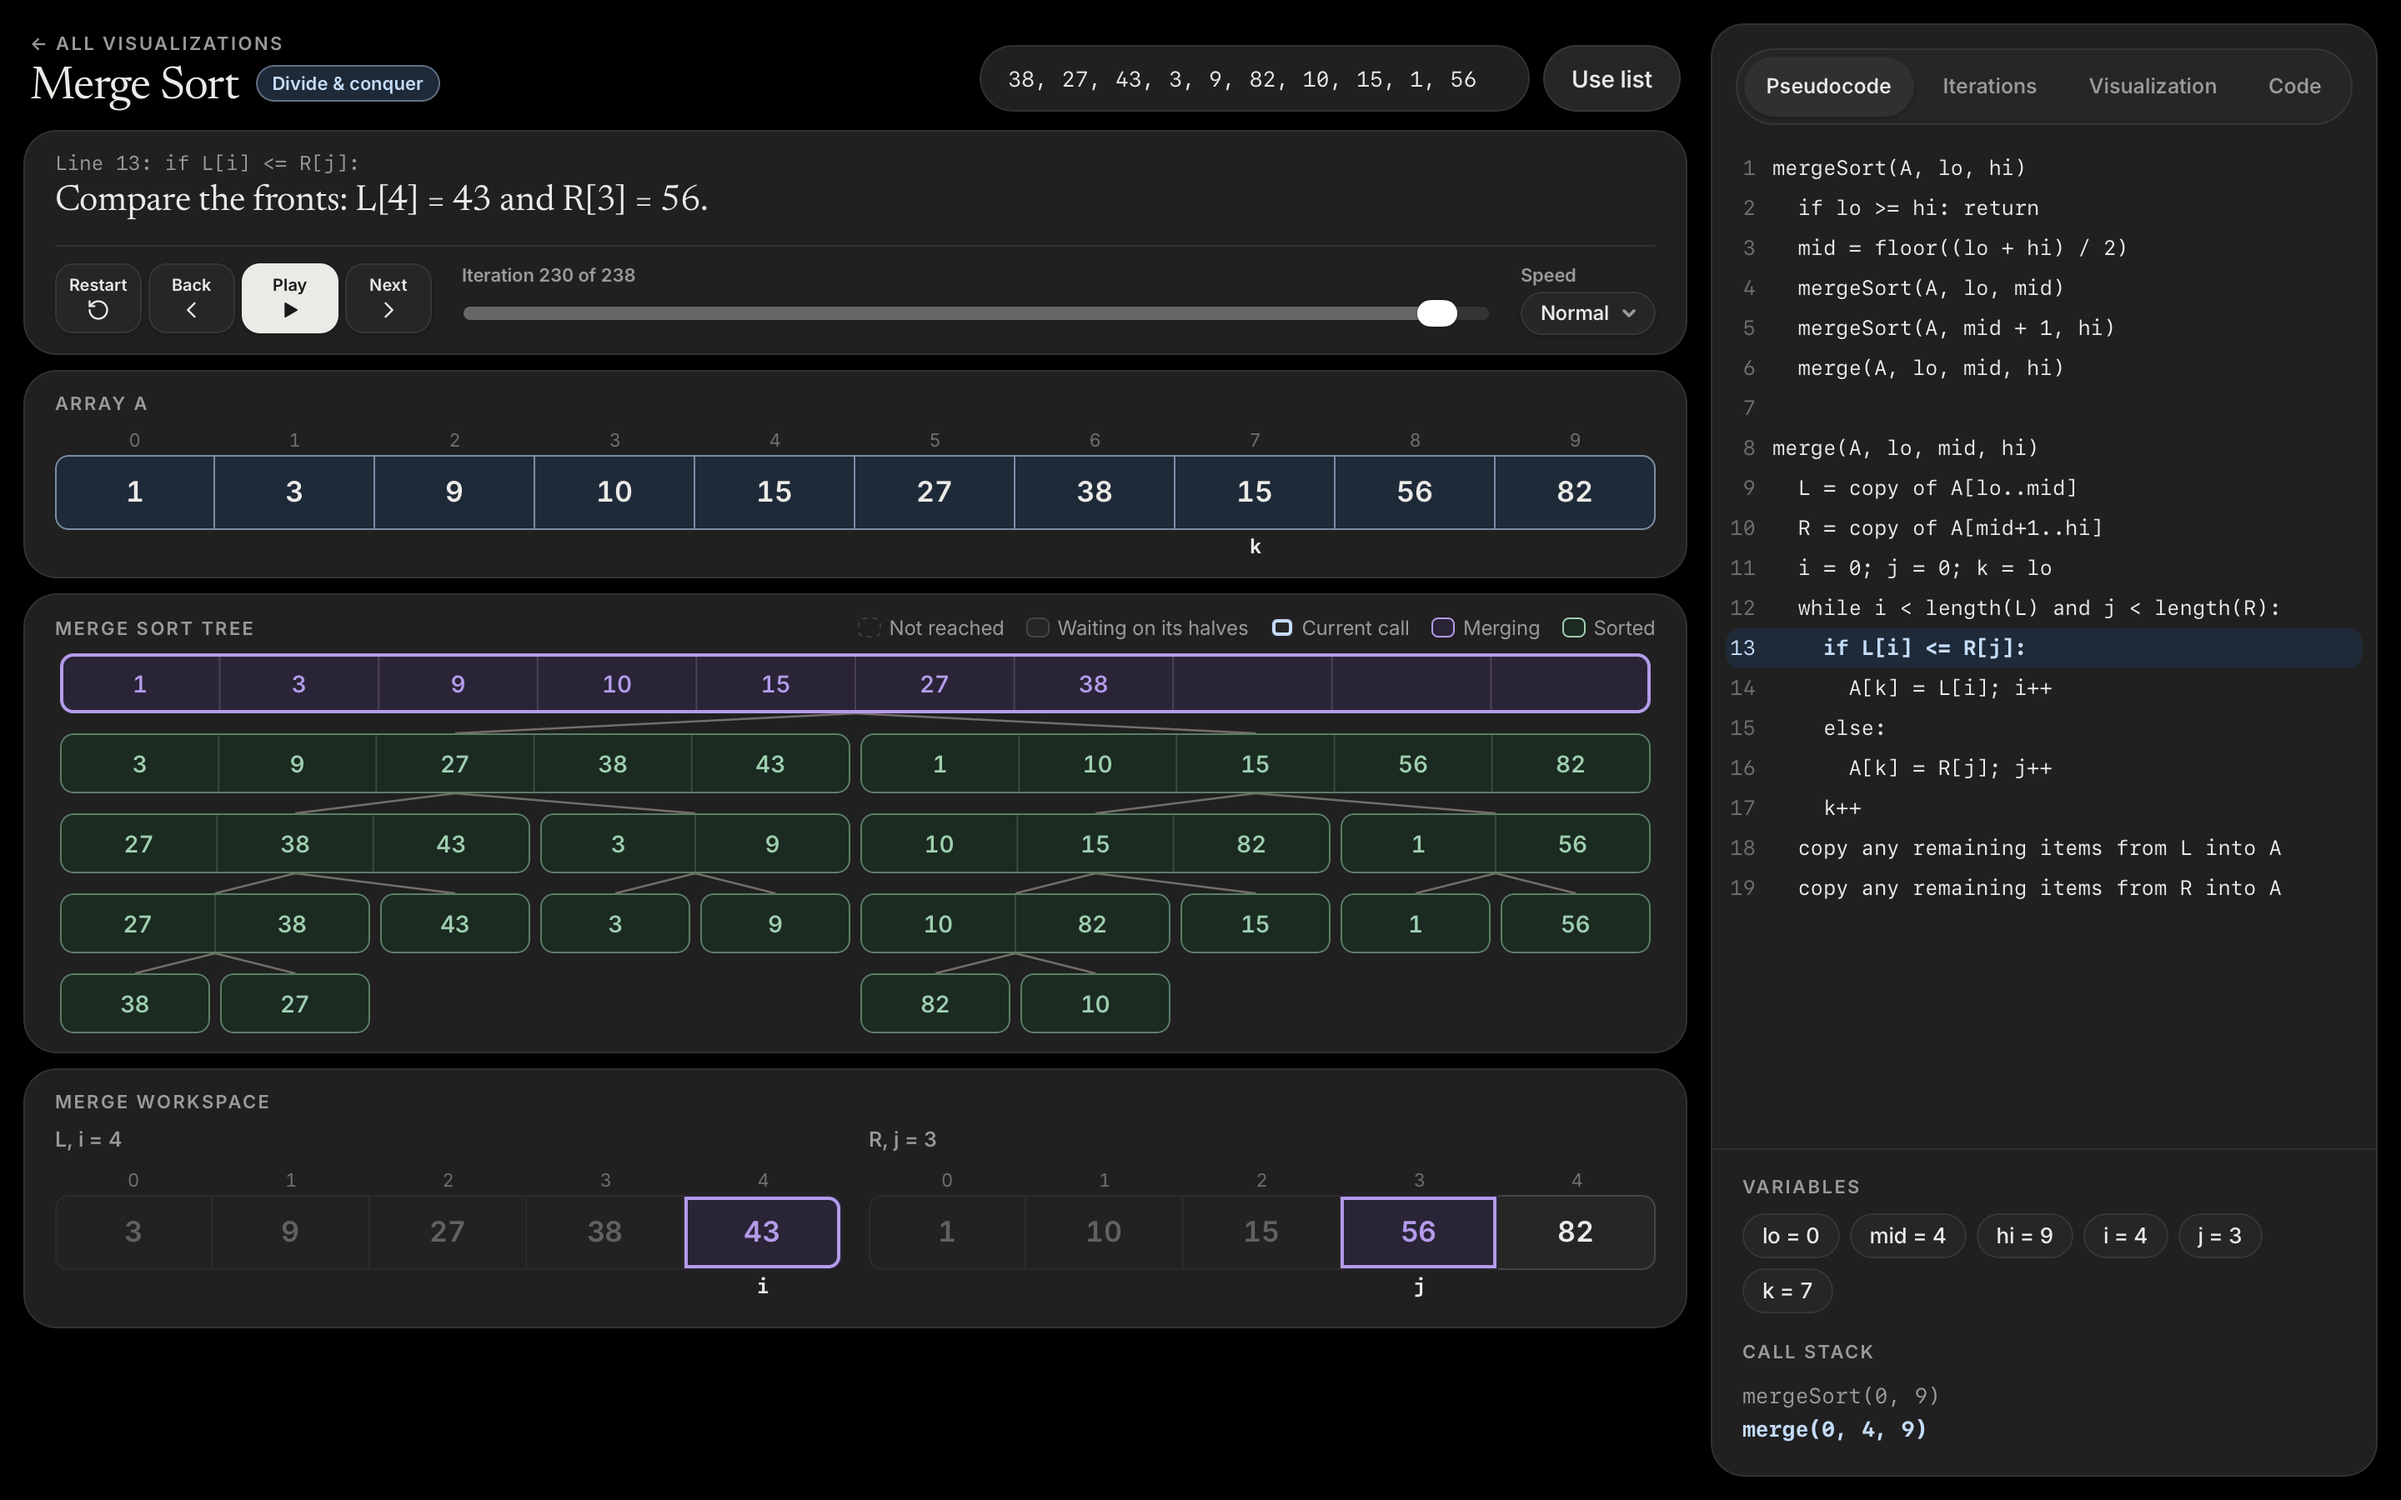
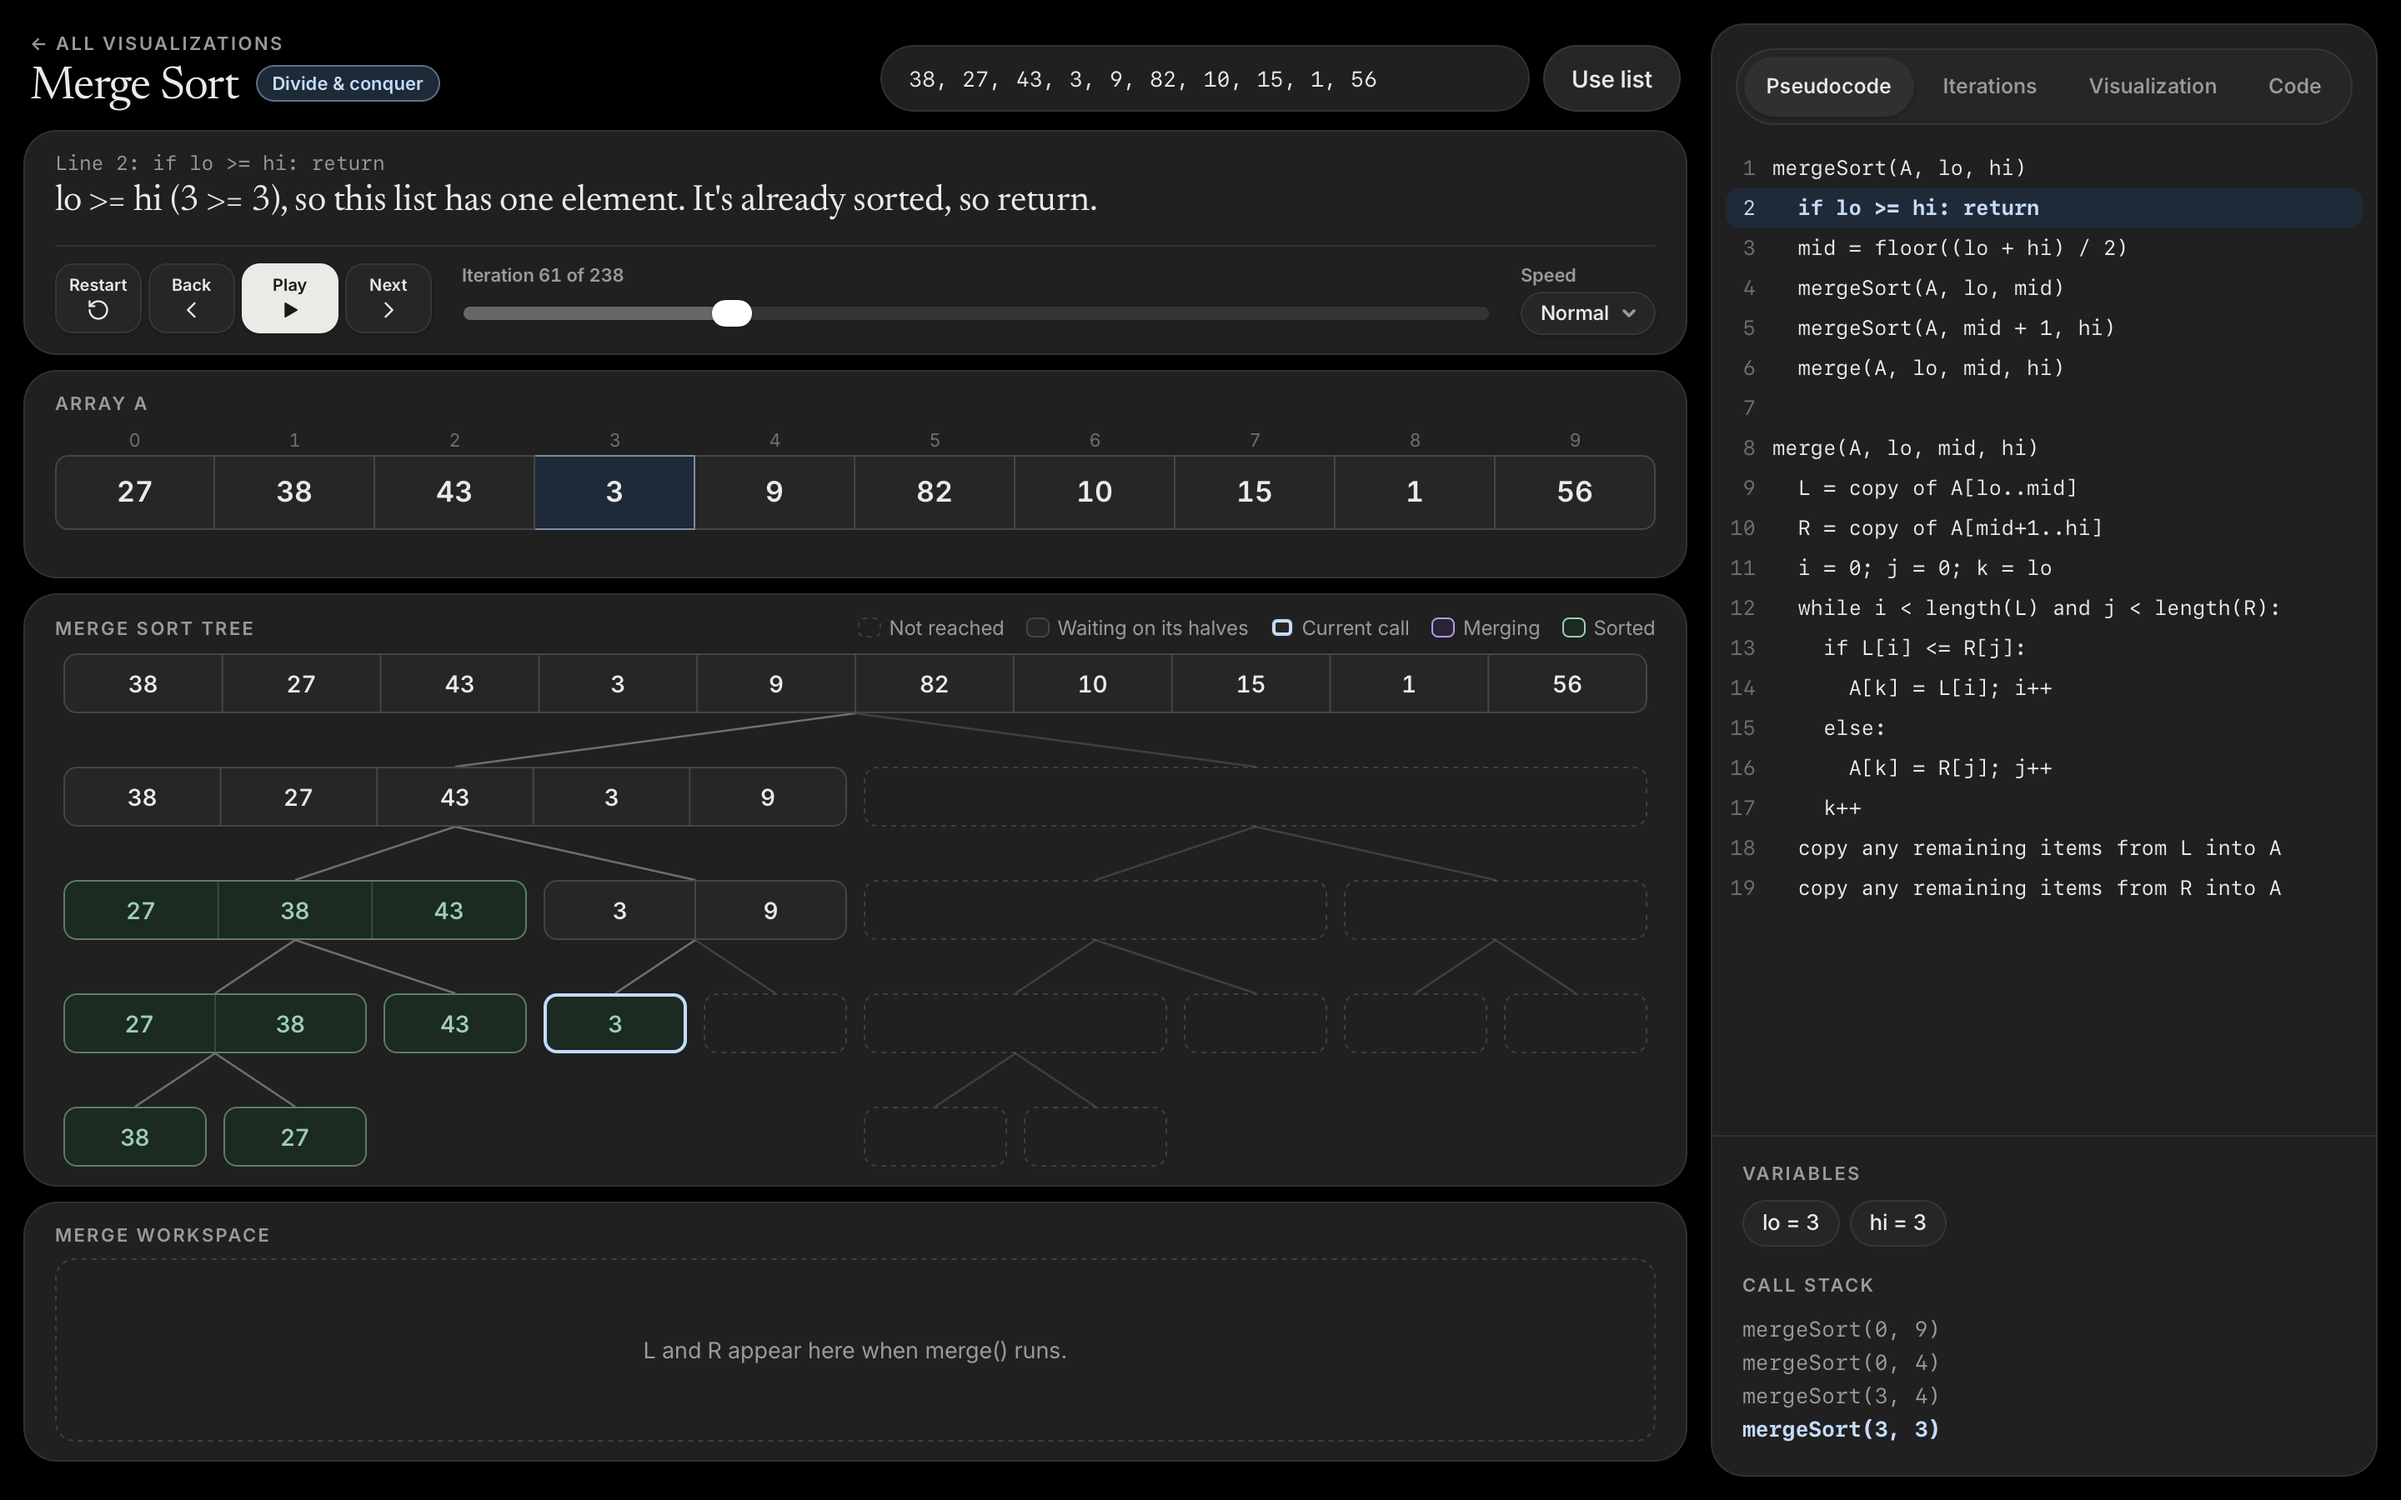
Add more space to algorithm trees

diff --git a/styles.css b/styles.css
@@ -104,7 +104,7 @@ select.pill { -webkit-appearance: none; appearance: none; padding-right: 32px; c
 .tree svg { position: absolute; inset: 0; width: 100%; height: 100%; }
 .tree line { stroke: var(--line-2); stroke-width: 1.25; }
 .tree line.on { stroke: var(--dim); }
-.node { position: absolute; height: 36px; padding: 0 3px; transition: left .2s var(--ease); }
+.node { position: absolute; height: 36px; padding: 0 5px; transition: left .2s var(--ease); }
 .node > div { display: flex; height: 100%; border: 1px solid var(--line-2); border-radius: 8px; overflow: hidden; background: var(--card-2); transition: background .2s, border-color .2s; }
 .node span { flex: 1 1 0; min-width: 0; display: flex; align-items: center; justify-content: center; font-size: 14px; font-weight: 550; font-variant-numeric: tabular-nums; }
 .node span + span { border-left: 1px solid var(--line-2); }
@@ -307,7 +307,7 @@ h1, .tile h2 { font-weight: 400; letter-spacing: -.02em; font-optical-sizing: au
 .analysis .note { padding: 9px 12px; border-radius: 10px; background: var(--date-dim); }
 .analysis .warn { padding: 9px 12px; border-radius: 10px; background: var(--want-dim); }
 .rt { margin: 0 0 10px; }
-.rt-row { display: grid; grid-template-columns: minmax(0, 1fr) 62px; gap: 8px; align-items: center; margin-bottom: 4px; }
+.rt-row { display: grid; grid-template-columns: minmax(0, 1fr) 62px; gap: 8px; align-items: center; margin-bottom: 7px; }
 .rt-row > b { text-align: right; font-size: 12.5px; font-variant-numeric: tabular-nums; }
 .rt-head { font-size: 11.5px; font-weight: 600; color: var(--muted); }
 .rt-head > b { font-size: 11.5px; color: var(--muted); }

diff --git a/player.js b/player.js
@@ -3,7 +3,7 @@ const ALGOS = {}; // filled by the files in algos/
 const $ = id => document.getElementById(id);
 const fmt = a => '[' + a.join(', ') + ']';
 const LIST_ERROR = 'Enter 2 to 16 whole numbers, up to 3 digits each, separated by commas.';
-const ROW = 48, NODE_H = 36;
+const ROW = 68, NODE_H = 36;
 const LANGS = [['cpp', 'C++'], ['java', 'Java'], ['python', 'Python']];
 let cfg, run, at = 0, timer = null;
 
@@ -38,7 +38,7 @@ function renderTree(s, cellClass = () => '') {
     });
   });
   $('tree').style.height = (depth * ROW + NODE_H) + 'px';
-  $('tree').style.minWidth = (n * 30) + 'px';
+  $('tree').style.minWidth = (n * 34) + 'px';
   $('tree').innerHTML = `<svg aria-hidden="true">${lines}</svg>` + run.nodes.map((x, i) => {
     const st = s.nodes[i];
     if (!st) return '';
@@ -60,7 +60,7 @@ function renderGraph(nodes, edges, height) {
   nodes.forEach((p, i) => nodes.slice(i + 1).forEach(q => {
     if (p.y === q.y && p.x !== q.x) gap = Math.min(gap, Math.abs(p.x - q.x));
   }));
-  $('graph').style.minWidth = Math.ceil(38 / (gap / 100)) + 'px';
+  $('graph').style.minWidth = Math.ceil(44 / (gap / 100)) + 'px';
   const lines = edges.map(e => {
     const a = nodes[e.a], b = nodes[e.b];
     return `<line class="${e.off ? 'off' : ''}" x1="${a.x}%" y1="${a.y + 17}" x2="${b.x}%" y2="${b.y + 17}"/>`;

diff --git a/analysis.js b/analysis.js
@@ -37,7 +37,7 @@ const log2Floor = n => Math.floor(Math.log2(n));
 /* ui */
 function costTree(levels, n, label) {
   const rows = levels.map(l => `<div class="rt-row"><div class="rt-bar">${l.boxes.map(b =>
-    `<span class="${b.leaf ? 'leaf' : ''}" style="left:${b.lo / n * 100}%;width:${(b.hi - b.lo + 1) / n * 100}%">${b.label}</span>`).join('')}</div><b>${l.cost}</b></div>`).join('');
+    `<span class="${b.leaf ? 'leaf' : ''}" style="left:${b.lo / n * 100}%;width:calc(${(b.hi - b.lo + 1) / n * 100}% - 3px)">${b.label}</span>`).join('')}</div><b>${l.cost}</b></div>`).join('');
   return `<div class="rt"><div class="rt-row rt-head"><span>Problem sizes at each level</span><b>${label}</b></div>${rows}</div>`;
 }
 

diff --git a/treesort.html b/treesort.html
@@ -70,13 +70,13 @@ startPlayer({
     const count = s.A.length;
     const nodes = run.tree.slice(0, s.visible).map(t => ({
       x: (t.rank + 0.5) / count * 100,
-      y: t.depth * 48,
+      y: t.depth * 68,
       label: t.value,
       cls: [s.visited.includes(t.id) ? 'done' : '', t.id === s.cur ? 'current' : ''].join(' '),
     }));
     const edges = run.tree.slice(0, s.visible).filter(t => t.parent !== null).map(t => ({ a: t.parent, b: t.id }));
     const depth = Math.max(...run.tree.map(t => t.depth));
-    renderGraph(nodes, edges, depth * 48 + 34);
+    renderGraph(nodes, edges, depth * 68 + 34);
   },
 });
 </script>

diff --git a/heapsort.html b/heapsort.html
@@ -69,7 +69,7 @@ startPlayer({
     });
     const nodes = s.A.map((v, i) => {
       const level = Math.floor(Math.log2(i + 1)), place = i + 1 - 2 ** level;
-      return { x: (place + 0.5) / 2 ** level * 100, y: level * 56, label: v, cls: cellClass(i).join(' ') };
+      return { x: (place + 0.5) / 2 ** level * 100, y: level * 76, label: v, cls: cellClass(i).join(' ') };
     });
     const edges = s.A.map((_, i) => i ? { a: Math.floor((i - 1) / 2), b: i, off: i >= s.sortedFrom } : null).filter(Boolean);
     renderGraph(nodes, edges);
